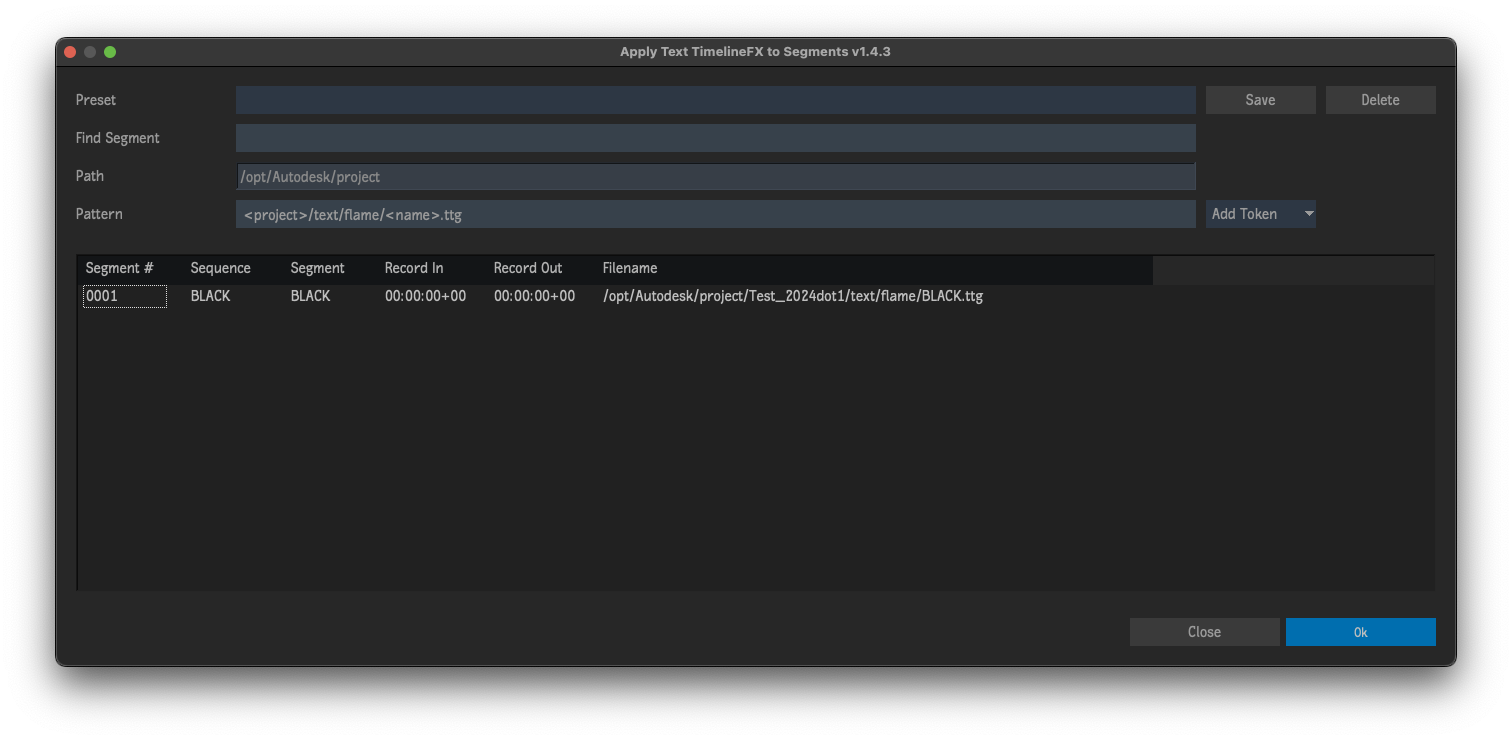
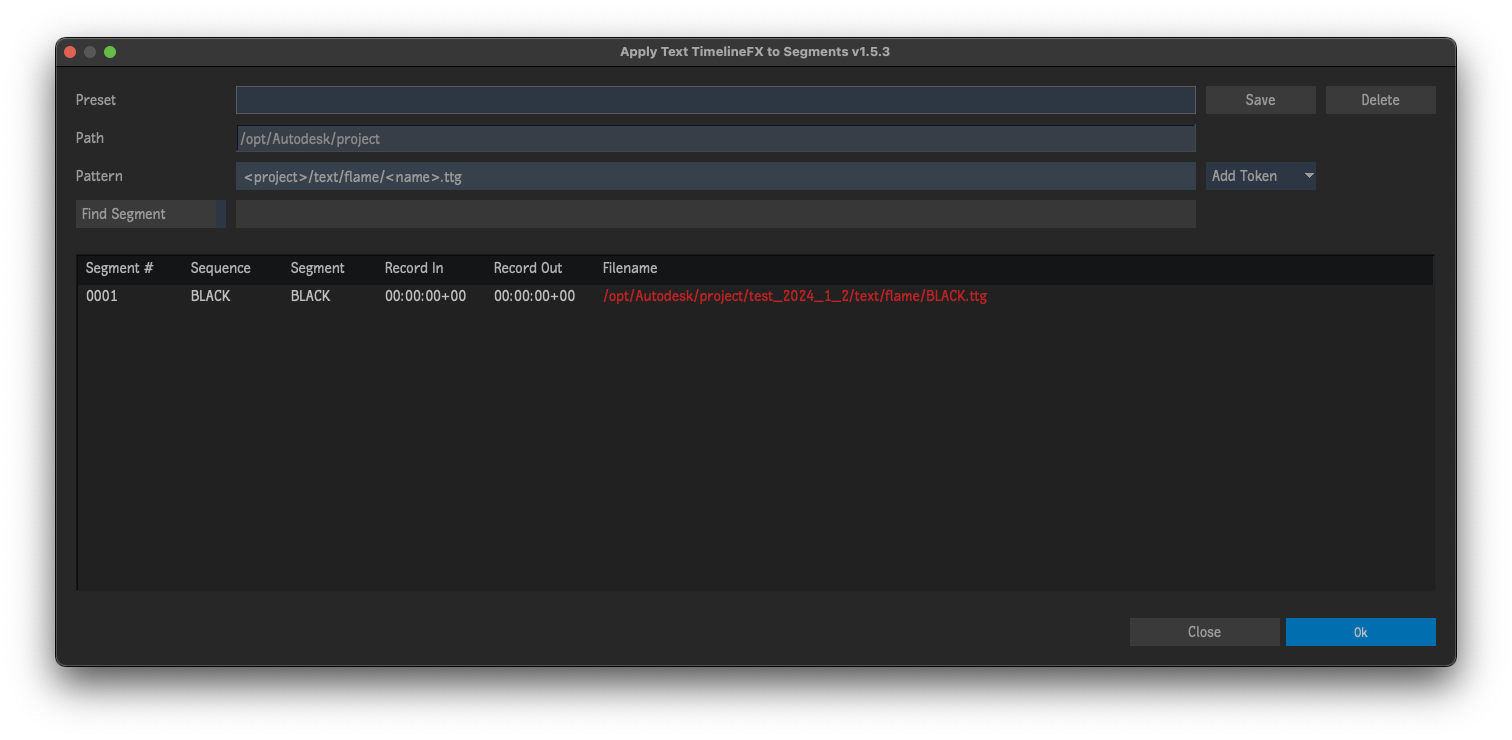
Add find segment button
Add button to enable finding segments by name.  This more follows the
conventions found commonly in Flame.  For example, within in the
Timeline Search button.

diff --git a/apply_text_timeline_fx_to_segments.py b/apply_text_timeline_fx_to_segments.py
@@ -2,13 +2,13 @@
 Script Name: Apply Text TimelineFX to Segments
 Written By: Kieran Hanrahan
 
-Script Version: 1.4.3
+Script Version: 1.5.3
 Flame Version: 2021.1
 
 URL: http://github.com/khanrahan/apply-text-timelinefx-to-segments
 
 Creation Date: 06.23.23
-Update Date: 10.23.23
+Update Date: 11.01.23
 
 Description:
 
@@ -45,7 +45,7 @@ from PySide2 import QtGui
 from PySide2 import QtWidgets
 
 TITLE = 'Apply Text TimelineFX to Segments'
-VERSION_INFO = (1, 4, 3)
+VERSION_INFO = (1, 5, 3)
 VERSION = '.'.join([str(num) for num in VERSION_INFO])
 TITLE_VERSION = '{} v{}'.format(TITLE, VERSION)
 MESSAGE_PREFIX = '[PYTHON HOOK]'
@@ -650,6 +650,78 @@ class FlameProgressWindow(QtWidgets.QDialog):
             pass
 
 
+class FlamePushButton(QtWidgets.QPushButton):
+    '''
+    Custom Qt Flame Push Button Widget
+
+    This is the original Push Button Widget with just the StyleSheet from the most
+    recent iteration on pyflame.com.
+    '''
+
+    def __init__(self, name, parent, checked, connect, *args, **kwargs):
+        super(FlamePushButton, self).__init__(*args, **kwargs)
+
+        self.setText(name)
+        self.setParent(parent)
+        self.setCheckable(True)
+        self.setChecked(checked)
+        self.clicked.connect(connect)
+        self.setFocusPolicy(QtCore.Qt.NoFocus)
+        self.setMinimumSize(150, 28)
+        self.setMaximumSize(150, 28)
+        self.setStyleSheet('''
+            QPushButton {
+                color: rgb(154, 154, 154);
+                background-color: qlineargradient(
+                    x1: 0, y1: 0, x2: 1, y2: 0,
+                    stop: .93 rgb(58, 58, 58),
+                    stop: .94 rgb(44, 54, 68));
+                text-align: left;
+                border-top: qlineargradient(
+                    x1: 0, y1: 0, x2: 1, y2: 0,
+                    stop: .93 rgb(58, 58, 58),
+                    stop: .94 rgb(44, 54, 68));
+                border-bottom: qlineargradient(
+                    x1: 0, y1: 0, x2: 1, y2: 0,
+                    stop: .93 rgb(58, 58, 58),
+                    stop: .94 rgb(44, 54, 68));
+                border-left: 1px solid rgb(58, 58, 58);
+                border-right: 1px solid rgb(44, 54, 68);
+                padding-left: 5px; font: 14px "Discreet"}
+            QPushButton:checked {
+                color: rgb(217, 217, 217);
+                background-color: qlineargradient(
+                    x1: 0, y1: 0, x2: 1, y2: 0,
+                    stop: .93 rgb(71, 71, 71),
+                    stop: .94 rgb(50, 101, 173));
+                text-align: left;
+                border-top: qlineargradient(
+                    x1: 0, y1: 0, x2: 1, y2: 0,
+                    stop: .93 rgb(71, 71, 71),
+                    stop: .94 rgb(50, 101, 173));
+                border-bottom: qlineargradient(
+                    x1: 0, y1: 0, x2: 1, y2: 0,
+                    stop: .93 rgb(71, 71, 71),
+                    stop: .94 rgb(50, 101, 173));
+                border-left: 1px solid rgb(71, 71, 71);
+                border-right: 1px solid rgb(50, 101, 173);
+                padding-left: 5px;
+                font: italic}
+            QPushButton:hover {border: 1px solid rgb(90, 90, 90)}'
+            QPushButton:disabled {
+                color: #6a6a6a;
+                background-color: qlineargradient(
+                    x1: 0, y1: 0, x2: 1, y2: 0,
+                    stop: .93 rgb(58, 58, 58),
+                    stop: .94 rgb(50, 50, 50));
+                font: light;
+                border: none}
+            QToolTip {
+                color: rgb(170, 170, 170);
+                background-color: rgb(71, 71, 71);
+                border: 10px solid rgb(71, 71, 71)}''')
+
+
 class FlamePushButtonMenu(QtWidgets.QPushButton):
     '''
     Custom Qt Flame Menu Push Button Widget v3.1
@@ -732,7 +804,7 @@ class FlamePushButtonMenu(QtWidgets.QPushButton):
         self.setMenu(self.pushbutton_menu)
 
     def create_menu(self, option, menu_action):
-        ''' '''
+        '''Create menu.'''
 
         self.setText(option)
 
@@ -914,13 +986,14 @@ class FlameTableWidget(QtWidgets.QTableWidget):
 
         data = []
 
-        for row in self.selectionModel().selectedRows():
+        for row in self.selectionModel().selectedRows():  # row is QModelIndex object
             row_data = []
 
-            for column in range(self.columnCount()):
-                row_data.append(
-                        self.model().data(self.model().index(row.row(), column)))
-            data.append(row_data)
+            if not self.isRowHidden(row.row()):
+                for column in range(self.columnCount()):
+                    row_data.append(
+                            self.model().data(self.model().index(row.row(), column)))
+                data.append(row_data)
 
         return data
 
@@ -945,14 +1018,14 @@ class FindSegmentApplyText(object):
         self.load_presets()
 
         # Fields
-        self.find = ''
-        self.load_find()
-
         self.path = ''
         self.load_path()
 
         self.pattern = ''
         self.load_pattern()
+
+        self.find = ''
+        self.load_find()
 
         # Find segments
         self.segments = []
@@ -1009,14 +1082,6 @@ class FindSegmentApplyText(object):
 
         return preset_element
 
-    def load_find(self):
-        '''Load the first preset's search term or use the default pattern.'''
-
-        if self.presets_xml_root.findall('preset'):
-            self.find = self.load_preset_by_index_element(0, 'find')
-        else:
-            self.find = ''
-
     def load_path(self):
         '''Load the first preset's path or use the default pattern.'''
 
@@ -1032,6 +1097,14 @@ class FindSegmentApplyText(object):
             self.pattern = self.load_preset_by_index_element(0, 'pattern')
         else:
             self.pattern = DEFAULT_PATTERN
+
+    def load_find(self):
+        '''Load the first preset's search term or use the default pattern.'''
+
+        if self.presets_xml_root.findall('preset'):
+            self.find = self.load_preset_by_index_element(0, 'find')
+        else:
+            self.find = ''
 
     def load_presets(self):
         '''Load preset file if preset and store XML tree & root'''
@@ -1148,12 +1221,12 @@ class FindSegmentApplyText(object):
             '''Save new preset to XML file.'''
 
             new_preset = et.Element('preset', name=self.line_edit_preset_name.text())
-            new_filter = et.SubElement(new_preset, 'find')
-            new_filter.text = self.find
             new_path = et.SubElement(new_preset, 'path')
             new_path.text = self.path
             new_pattern = et.SubElement(new_preset, 'pattern')
             new_pattern.text = self.pattern
+            new_filter = et.SubElement(new_preset, 'find')
+            new_filter.text = self.find
 
             self.presets_xml_root.append(new_preset)
             sort_presets()
@@ -1175,9 +1248,9 @@ class FindSegmentApplyText(object):
 
             for preset in self.presets_xml_root.findall('preset'):
                 if preset.get('name') == preset_name:
-                    preset.find('find').text = self.find
                     preset.find('path').text = self.path
                     preset.find('pattern').text = self.pattern
+                    preset.find('find').text = self.find
 
             try:
                 self.presets_xml_tree.write(self.presets_xml)
@@ -1309,9 +1382,10 @@ class FindSegmentApplyText(object):
             if preset_name:  # might be empty str if all presets were deleted
                 for preset in self.presets_xml_root.findall('preset'):
                     if preset.get('name') == preset_name:
-                        self.find_line_edit.setText(preset.find('find').text)
                         self.path_line_edit.setText(preset.find('path').text)
                         self.pattern_line_edit.setText(preset.find('pattern').text)
+                        self.find_line_edit.setText(preset.find('find').text)
+                        find_toggle()
                         break  # should not be any duplicates
 
         def preset_delete_button():
@@ -1429,6 +1503,27 @@ class FindSegmentApplyText(object):
             self.segments_table.resizeColumnsToContents()
             verify_filename_column_exists()
 
+        def find_toggle():
+            ''' '''
+
+            if self.find:
+                self.btn_find_segment.setChecked(True)
+                self.find_line_edit.setEnabled(True)
+            if not self.find:
+                self.btn_find_segment.setChecked(False)
+                self.find_line_edit.setEnabled(False)
+
+        def find_segment_button():
+            ''' '''
+
+            if not self.find_line_edit.isEnabled():
+                self.find = self.find_line_edit.text()
+                self.find_line_edit.setEnabled(True)
+            else:
+                self.find = ''
+                self.find_line_edit.setEnabled(False)
+            filter_table()
+
         def populate_table():
             '''Fill in the table.'''
 
@@ -1471,19 +1566,18 @@ class FindSegmentApplyText(object):
 
         # Label
         self.preset_label = FlameLabel('Preset')
-        self.find_label = FlameLabel('Find Segment')
         self.path_label = FlameLabel('Path')
         self.pattern_label = FlameLabel('Pattern')
 
         # Line Edit
-        self.find_line_edit = FlameLineEdit(self.find)
-        self.find_line_edit.textChanged.connect(find_changed)
-
         self.path_line_edit = FlameLineEditFileBrowse(self.path, 'dir', self.window)
         self.path_line_edit.textChanged.connect(path_changed)
 
         self.pattern_line_edit = FlameLineEdit(self.pattern)
         self.pattern_line_edit.textChanged.connect(pattern_changed)
+
+        self.find_line_edit = FlameLineEdit(self.find)
+        self.find_line_edit.textChanged.connect(find_changed)
 
         # Table
         self.segments_table = FlameTableWidget(self.table_columns)
@@ -1507,10 +1601,16 @@ class FindSegmentApplyText(object):
             # so need to simplify it with a dict comprehension
             {key: values[0] for key, values in self.segment_tokens.items()},
             self.pattern_line_edit)
+
+        self.btn_find_segment = FlamePushButton(
+            'Find Segment', self.window, bool(self.find), find_segment_button)
+
         self.ok_btn = FlameButton('Ok', okay_button, button_color='blue')
         self.ok_btn.setAutoDefault(True)  # doesnt make Enter key work
-
         self.cancel_btn = FlameButton('Close', close_button)
+
+        # Finally before Layout
+        find_toggle()
 
         # Layout
         self.grid = QtWidgets.QGridLayout()
@@ -1521,13 +1621,13 @@ class FindSegmentApplyText(object):
         self.grid.addWidget(self.btn_preset, 0, 1)
         self.grid.addWidget(self.btn_preset_save, 0, 2)
         self.grid.addWidget(self.btn_preset_delete, 0, 3)
-        self.grid.addWidget(self.find_label, 1, 0)
-        self.grid.addWidget(self.find_line_edit, 1, 1)
-        self.grid.addWidget(self.path_label, 2, 0)
-        self.grid.addWidget(self.path_line_edit, 2, 1)
-        self.grid.addWidget(self.pattern_label, 3, 0)
-        self.grid.addWidget(self.pattern_line_edit, 3, 1)
-        self.grid.addWidget(self.tokens_btn, 3, 2)
+        self.grid.addWidget(self.path_label, 1, 0)
+        self.grid.addWidget(self.path_line_edit, 1, 1)
+        self.grid.addWidget(self.pattern_label, 2, 0)
+        self.grid.addWidget(self.pattern_line_edit, 2, 1)
+        self.grid.addWidget(self.tokens_btn, 2, 2)
+        self.grid.addWidget(self.btn_find_segment, 3, 0)
+        self.grid.addWidget(self.find_line_edit, 3, 1)
 
         self.hbox = QtWidgets.QHBoxLayout()
         self.hbox.addWidget(self.segments_table)
